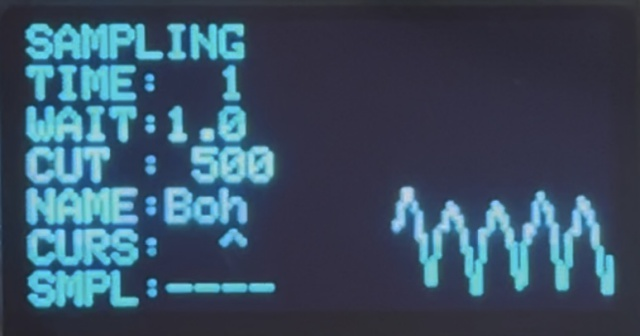
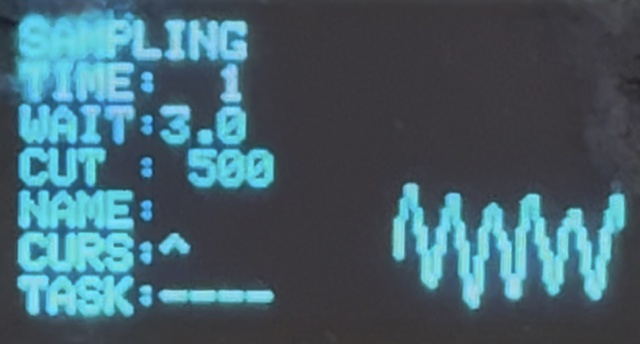
Doc

diff --git a/Doc/UsersManual_jp.md b/Doc/UsersManual_jp.md
@@ -357,7 +357,7 @@
 
 	増減する実数値の桁位置を設定します。  
 
-### 11-4. SMPL (RT3)  
+### 11-4. SAVE (RT3)  
 
 	FM変調された波形をサンプリング波形として保存します。
 	RT3を右に回すと「Save?」と確認表示が出ます。さらにRT3を右に回すと実際に保存が行われます。  
@@ -406,7 +406,7 @@
 
 	ディケイが完了するレベル（サスティーンレベル）を0.0〜1.0で設定します。  
 
-### 12-7. RELS (RT6)  
+### 12-7. SuRs (RT6)  
 
 	サスティーンレベルからエンドレベルにスイープする長さを設定します。0〜511で、0は即座に移行することを表します。  
 
@@ -553,7 +553,7 @@
 
 	エンベロープのサスティーンレベルを0.0〜1.0で設定します。  
 
-### 16-5. SuRs (RT5)  
+### 16-5. RELS (RT5)  
 
 	エンベロープのリリース秒数を設定します。  
 
@@ -650,7 +650,7 @@
 
 	増減する実数値の桁位置を設定します。  
 
-### 19-7. SMPL (RT7)  
+### 19-7. TASK (RT7)  
 
 	サンプリング波形の保存をします。
 	RT7を右に回すと「Save?」と確認表示が出ます。さらにRT7を右に回すと実際に保存が行われます。  
